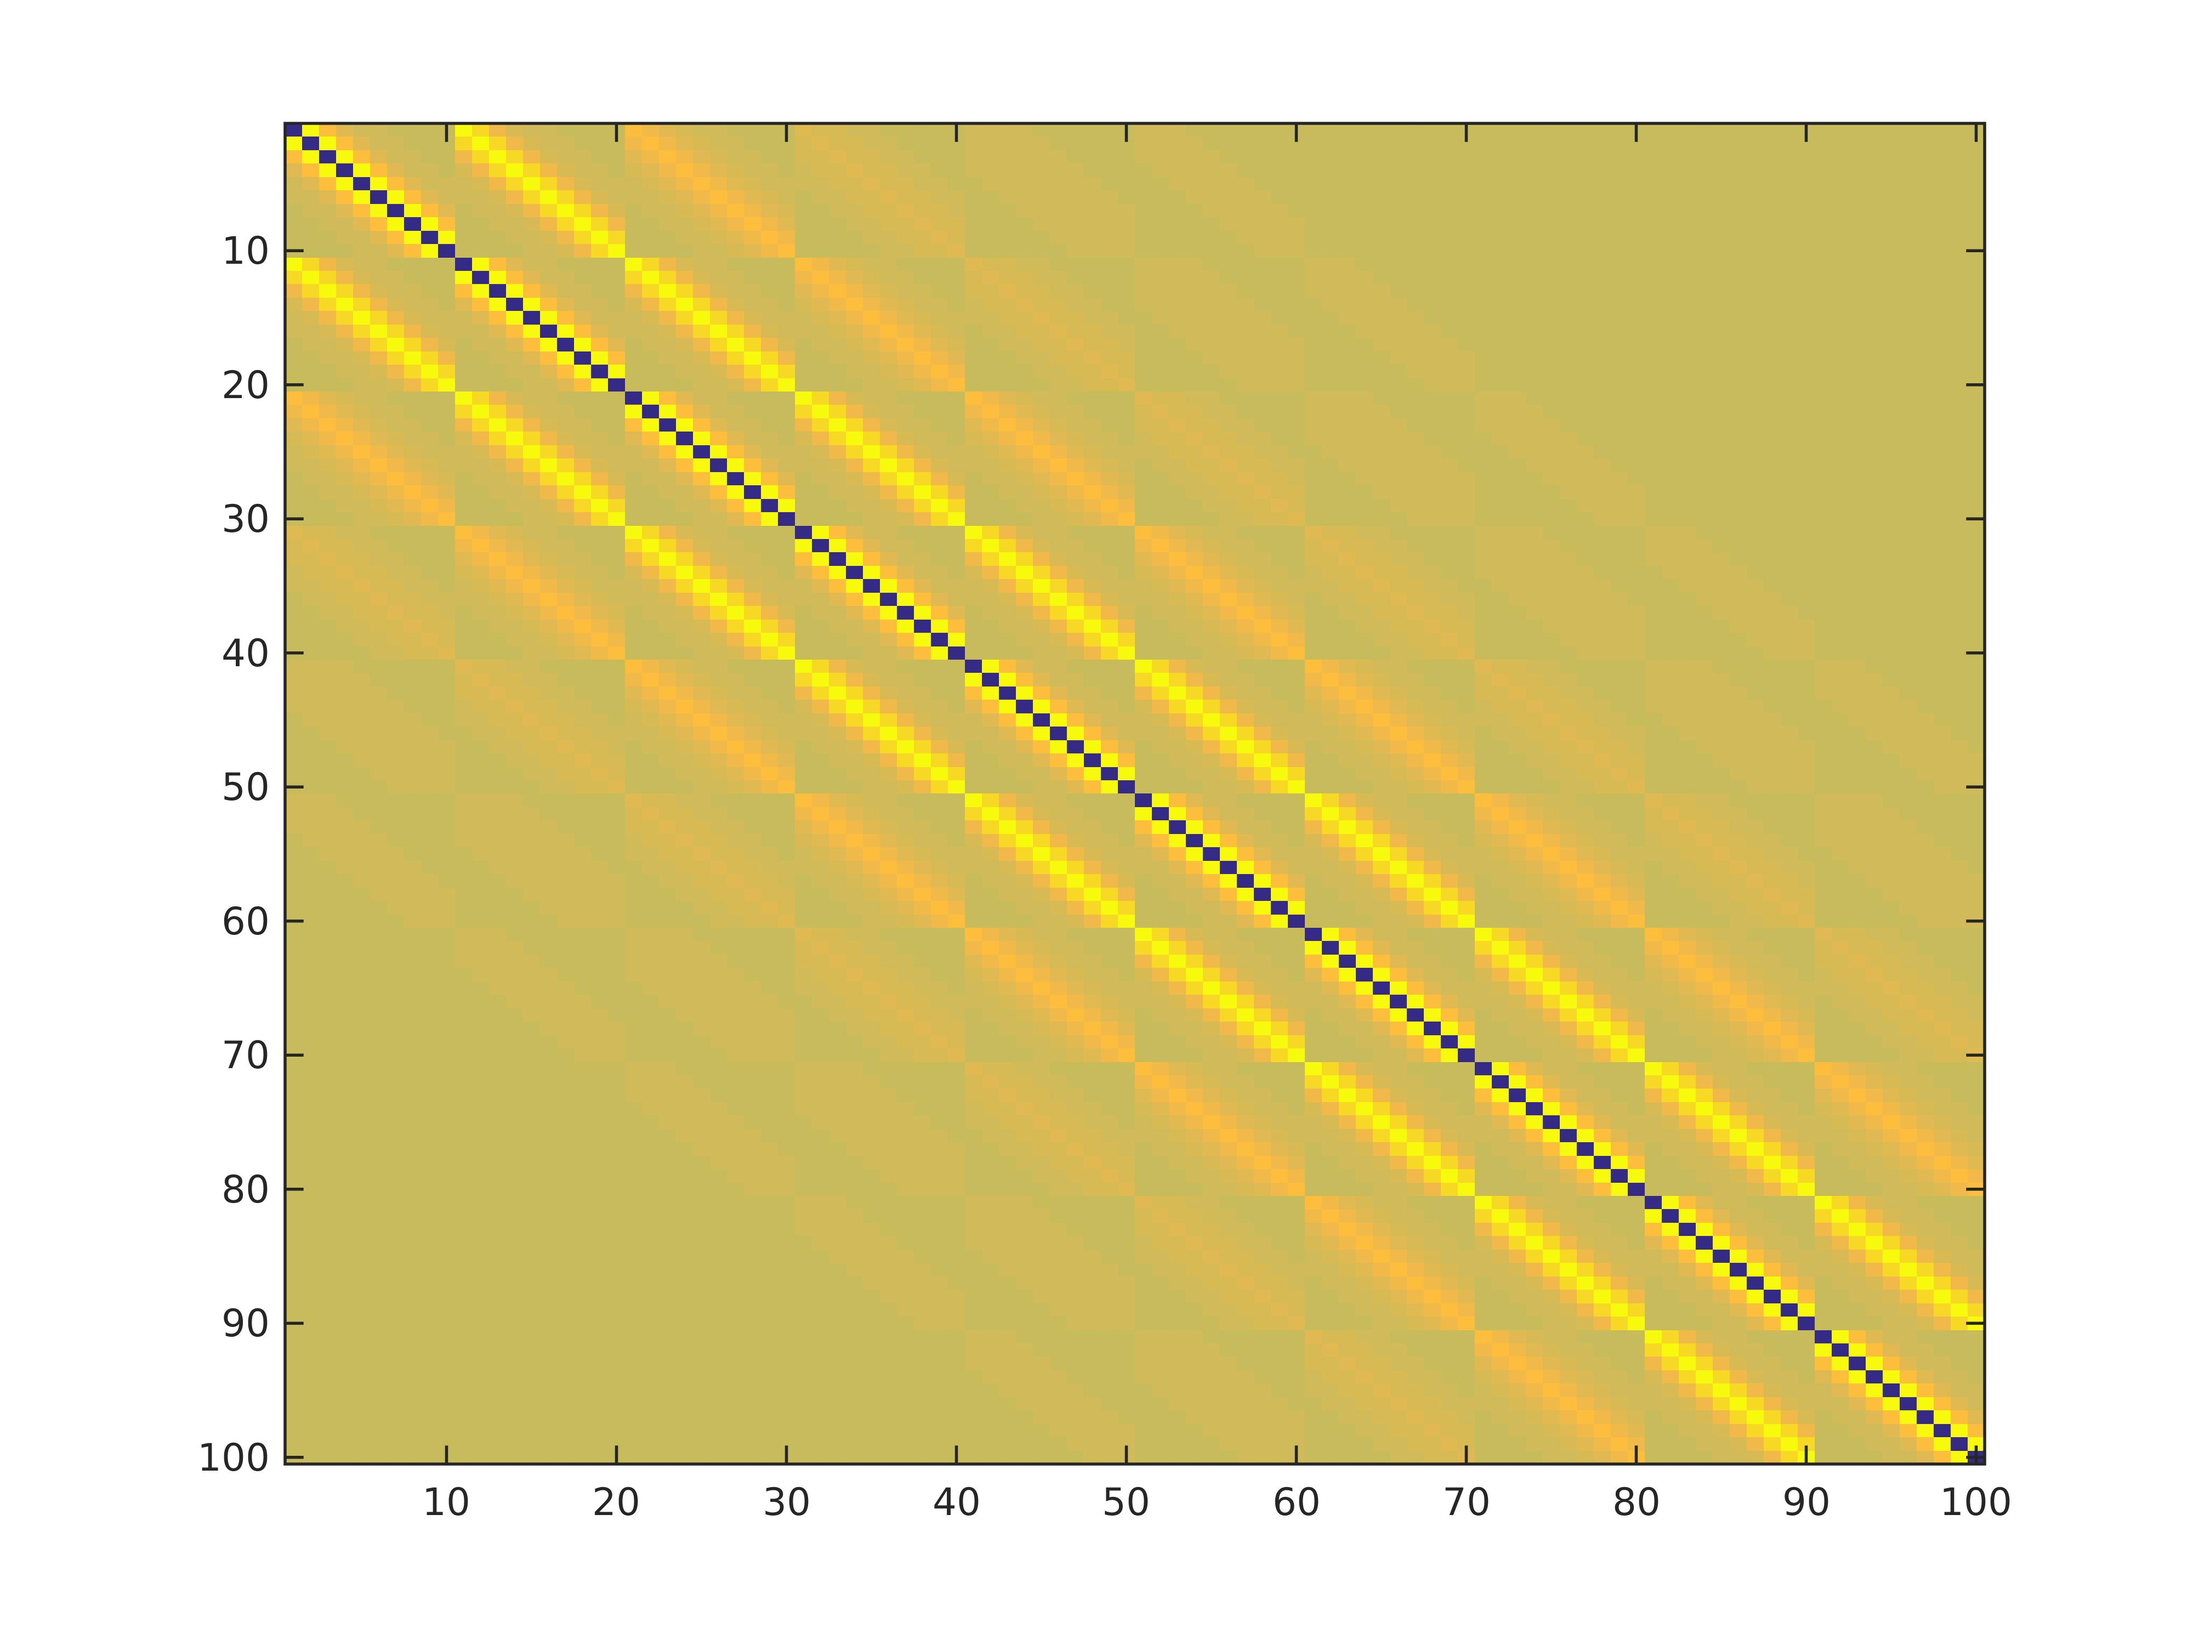
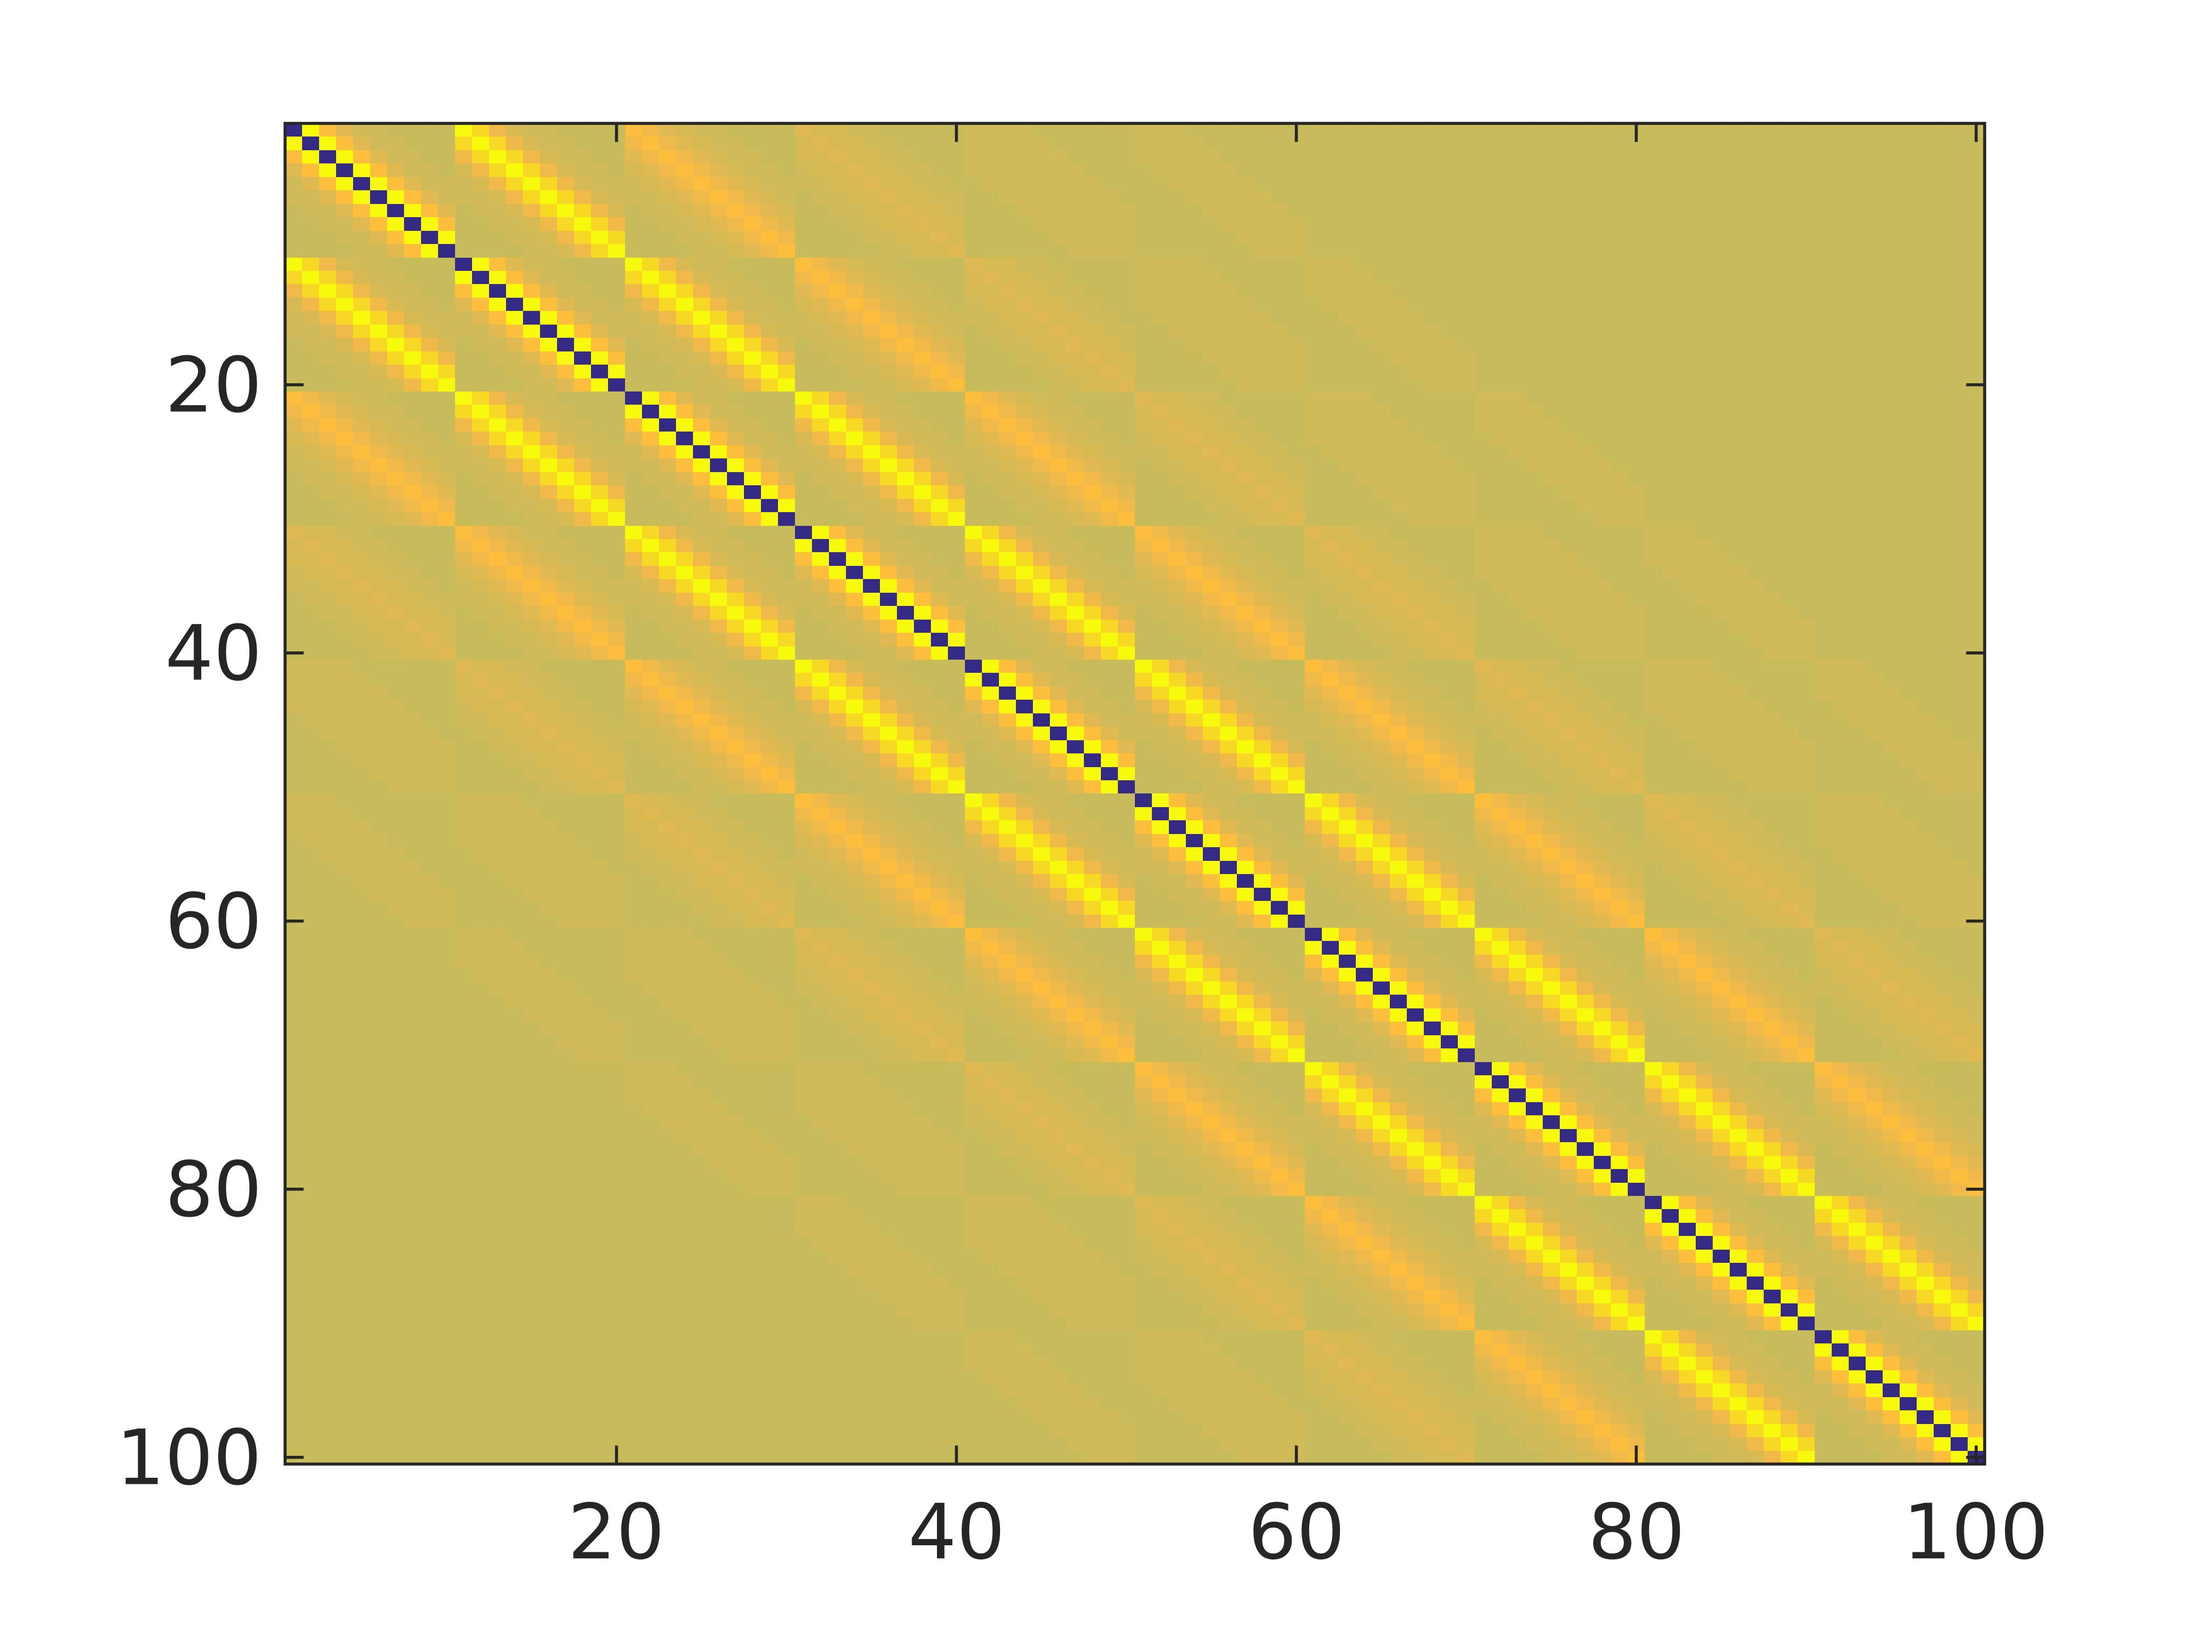
new_images

diff --git a/Matlab/full connectivity/multiple_spiking.m b/Matlab/full connectivity/multiple_spiking.m
@@ -48,14 +48,17 @@ displayHOG2(ac_orient);
 figure;
 displayHOG2(direction(:,:,timesteps));
 %% Print weight matrix
-set(gca,'fontize',14);
 h1 = figure;
 imagesc(weight_matrix)
-print(h1,'-djpeg','-r500','filename')
+set(gca,'fontsize',20,'fontweight','demi');
+print(h1,'-djpeg','-r500','weight1')
 h2 = figure;
 imagesc(weight_matrix(1:100,1:100))
-print(h2,'-djpeg','-r500','filename2')
+set(gca,'fontsize',20,'fontweight','demi');
+print(h2,'-djpeg','-r500','weight2')
 h3 = figure;
 imagesc(weight_matrix(1:10,1:10))
-print(h3,'-djpeg','-r500','filename3')
-print(h1,'-djpeg','-r500','filename4')
+set(gca,'fontsize',20,'fontweight','demi');
+print(h3,'-djpeg','-r500','weight3')
+set(gca,'fontsize',20,'fontweight','demi');
+print(h1,'-djpeg','-r500','weight4')
